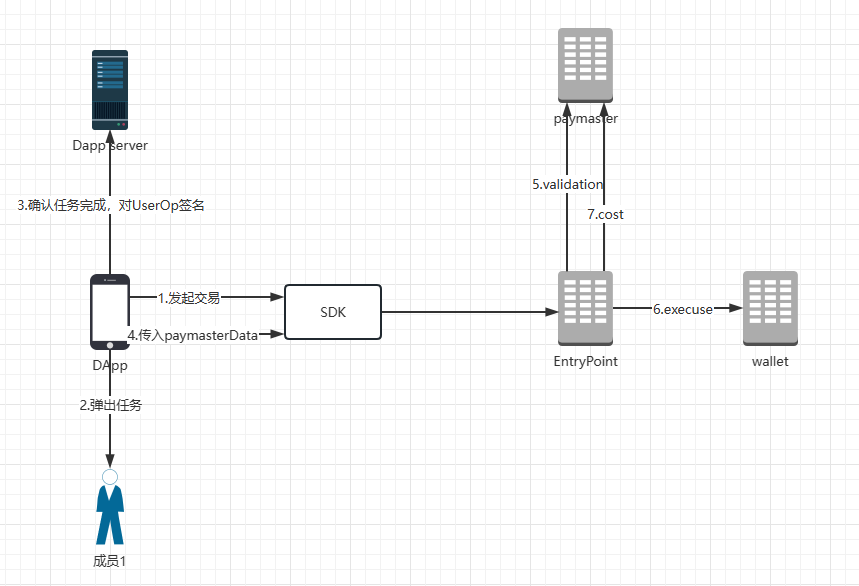
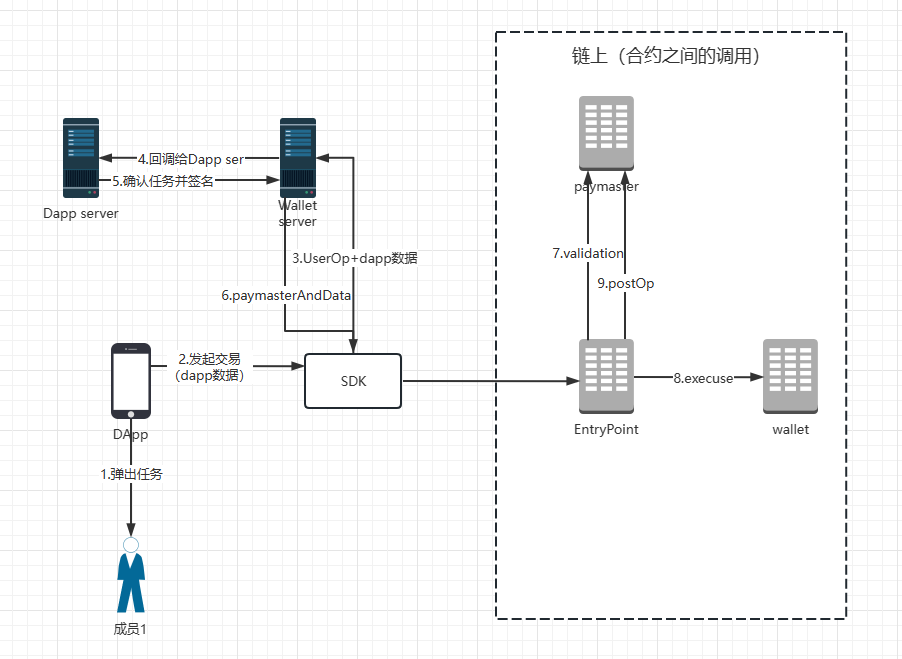
update paymaster

diff --git a/src/pages/index.tsx b/src/pages/index.tsx
@@ -1,5 +1,5 @@
 import React, {useEffect, useState} from "react";
-import { LongshipSDK, EIP1271 } from 'able-wallet-core';
+import { LongshipSDK, EIP1271, LSPaymasterMode } from 'able-wallet-core';
 import { Form, Input, message, Select, Modal } from "antd";
 import { ethers } from "ethers";
 import styles from './index.less';
@@ -202,17 +202,11 @@ const { TextArea } = Input;
          };
          try {
              const res = await longshipWallet.sendTransaction({
-                 from: account.wallet_address,
-                 to: e.address,
-                 value: e.amount,
-                 data: '0x',
-                 info: {
-                     type: 'ETH',
-                     to: e.address,
-                     amount: e.amount,
-                     name: 'eth'
-                 },
-                 paymasterOptions: e.paymasterOptions,
+                from: account.wallet_address,
+                to: e.address,
+                value: e.amount,
+                data: '0x',
+                paymasterOptions: e.paymasterOptions,
              })
              if (res === 'transfer success') {
                  message.success(res);
@@ -241,12 +235,6 @@ const { TextArea } = Input;
                  to: e.contractAddress,
                  value: '0x0',
                  data: callData,
-                 info: {
-                     type: 'ERC20',
-                     to: e.address,
-                     amount: e.amount,
-                     name: 'usdmc'
-                 }
              });
              if (res === 'transfer success') {
                  message.success(res);
@@ -269,12 +257,6 @@ const { TextArea } = Input;
                  to: e.contractAddress,
                  value: '0x0',
                  data: callData,
-                 info: {
-                     type: 'ERC721',
-                     to: e.address,
-                     tokenId: e.tokenId,
-                     name: 'erc721'
-                 }
              });
              if (res === 'transfer success') {
                  message.success(res);
@@ -297,13 +279,6 @@ const { TextArea } = Input;
                  to: e.contractAddress,
                  value: '0x0',
                  data: callData,
-                 info: {
-                     type: 'ERC1155',
-                     to: e.address,
-                     amount: e.amount,
-                     tokenId: e.tokenId,
-                     name: 'erc1155'
-                 }
              });
              if (res === 'transfer success') {
                  message.success(res);
@@ -381,33 +356,10 @@ const { TextArea } = Input;
                                     const params = {
                                         ...values,
                                         paymasterOptions: {
-                                            // address: paymaster.address,
-                                            // validUntil: paymaster.validUntil,
-                                            // validAfter: paymaster.validAfter,
-                                            callback: 'confirmSign',
+                                            mode: 1,
+                                            extraData: JSON.stringify({ uid: '123' })
                                         }
                                     }
-                                    const confirmSign = (op) => {
-                                        return new Promise((resolve, reject) => {
-                                            return Modal.confirm({
-                                                title: '确认签名？',
-                                                onCancel: () => {
-                                                    reject('user cancel');
-                                                },
-                                                onOk: async () => {
-                                                    const sig = await getServerSignature(op);
-                                                    const paymasterAndData = getPaymasterAndData(
-                                                        paymaster.address,
-                                                        paymaster.validUntil,
-                                                        paymaster.validAfter,
-                                                        sig,
-                                                    );
-                                                    resolve(paymasterAndData);
-                                                },
-                                            })
-                                        })
-                                    }
-                                    window.confirmSign = confirmSign;
                                     onSubmit(params, sendETH);
                                  }}>
                                      Send With Paymaster
@@ -704,7 +656,7 @@ const { TextArea } = Input;
                      </div>
                  </Content>
                  <Sider width={360} className={styles.contentRight} theme="light">
-                     {
+                     {/* {
                          !account && (
                              <>
                                  <h2>Networks</h2>
@@ -715,7 +667,7 @@ const { TextArea } = Input;
                                  />
                              </>
                          )
-                     }
+                     } */}
                      <h2>{account ? 'Wallet Information' : 'Login Methods'}</h2>
                      {
                          account && (
@@ -745,18 +697,16 @@ const { TextArea } = Input;
 
                      <Button type="primary" style={{marginTop: 12, width: 240}} onClick={async () => {
                          if (account) {
-                             setAccount(undefined);
-                             localStorage.removeItem('LSAC');
+                            try {
+                                await longshipWallet.logout()
+                                setAccount(undefined);
+                                localStorage.removeItem('LSAC');
+                            } catch (e) {
+                                message.error(e+'')
+                            }
                          } else {
                              try {
-                                 const res = await longshipWallet.login({
-                                     eventListener: (event: any) => {
-                                         console.log("event", event);
-                                         message.info(
-                                             'eventListener'
-                                         )
-                                     },
-                                 })
+                                 const res = await longshipWallet.login()
                                  setAccount(res);
                              } catch (e) {
                                  message.error(e+'')

diff --git a/README.md b/README.md
@@ -46,4 +46,20 @@ if (result) {
 ## Paymaster
 ![流程图](./paymaster.png)
 
-当前项目在本地启动时使用paymaster有跨域问题，可前往[线上demo](https://wallet-demo.blockservice.io/dapp-demo)体验
+### 使用paymaster
+```
+try {
+  await longshipWallet.sendTransaction({
+    from: account.wallet_address,
+    to: '0x1111',
+    value: '1',
+    data: '0x',
+    paymasterOptions: {
+      mode: 1, // 1: sponseored by able wallet
+      extraData: JSON.stringify({ uid: '123' })
+    },
+  });
+} catch(e) {
+  console.log(e);
+}
+```
